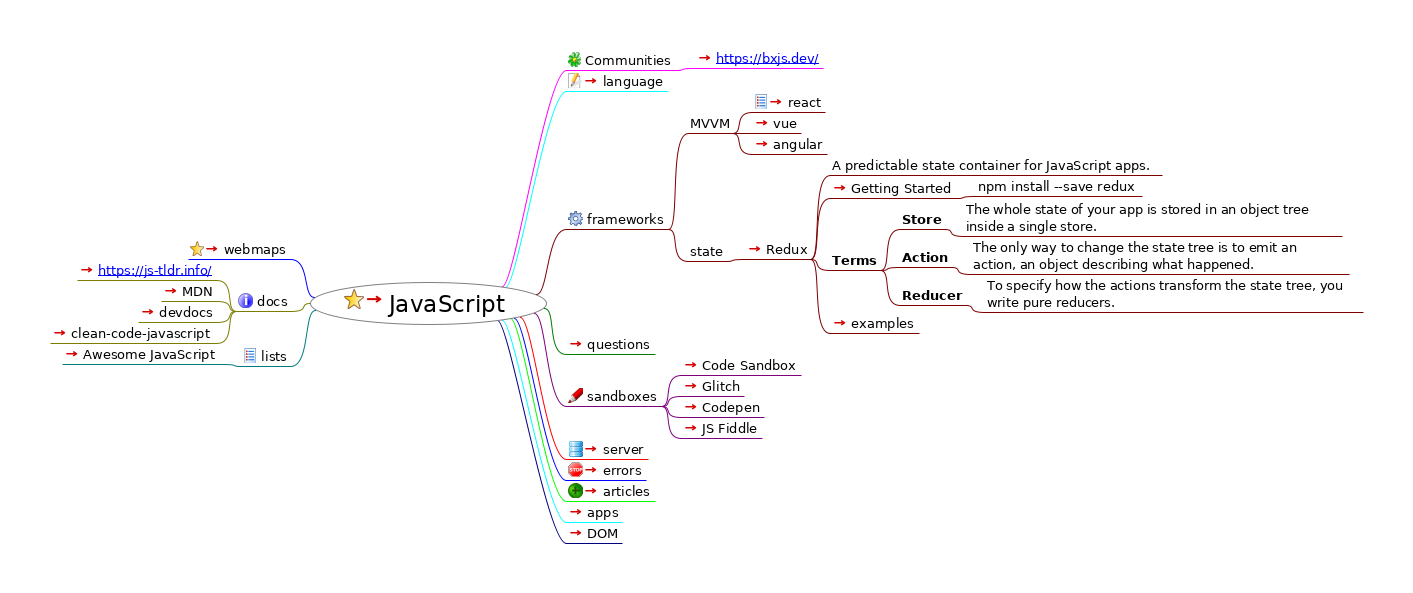
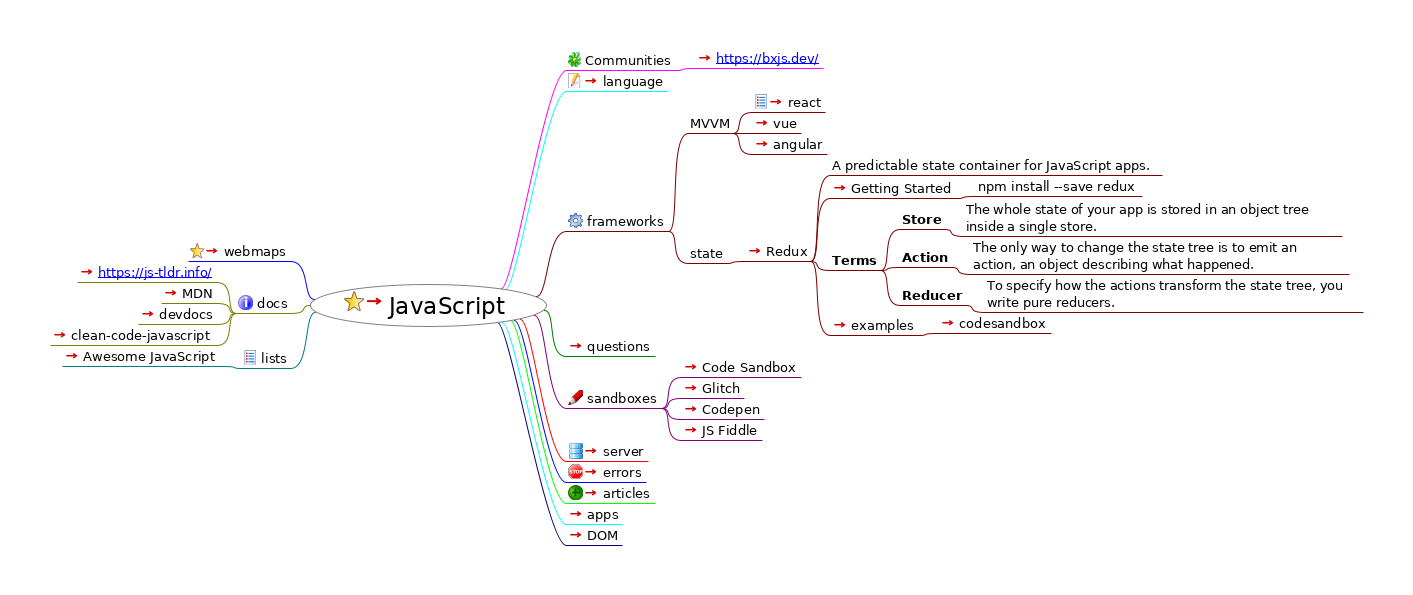
add redux

diff --git a/index.html b/index.html
@@ -23,25 +23,25 @@
                    };
                };
           
-          --></script></head><body><h1>JavaScript</h1><div style="width:96%;  padding:2%;  margin-bottom:10px;  border: 0px;  text-align:center;  vertical-align:center;"><img src="index.html_files/image.png" style="margin-bottom:10px; &#9;border: 0px; &#9;text-align:center; &#9;vertical-align:center;" alt="Imagemap" usemap="#fm_imagemap" /></div><map name="fm_imagemap" id="fm_imagemap"><area shape="rect" href="../tech/index.html" alt="JavaScript" title="JavaScript" coords="310,282,547,325" />
-<area shape="rect" href="https://github.com/solidpayorg/webmaps/" alt="webmaps" title="webmaps" coords="188,241,291,259" />
-<area shape="rect" href="#FMID_1425964050FM" alt="docs" title="docs" coords="236,293,291,311" />
-<area shape="rect" href="https://js-tldr.info/" alt="https://js-tldr.info/" title="https://js-tldr.info/" coords="77,262,217,280" />
-<area shape="rect" href="https://developer.mozilla.org/en-US/docs/Web/JavaScript" alt="MDN" title="MDN" coords="161,283,217,301" />
-<area shape="rect" href="https://devdocs.io/javascript/" alt="devdocs" title="devdocs" coords="138,304,217,322" />
-<area shape="rect" href="https://github.com/ryanmcdermott/clean-code-javascript" alt="clean-code-javascript" title="clean-code-javascript" coords="50,325,217,343" />
-<area shape="rect" href="#FMID_829378880FM" alt="lists" title="lists" coords="241,348,291,366" />
-<area shape="rect" href="https://github.com/sorrycc/awesome-javascript" alt="Awesome JavaScript" title="Awesome JavaScript" coords="62,346,222,364" />
+          --></script></head><body><h1>JavaScript</h1><div style="width:96%;  padding:2%;  margin-bottom:10px;  border: 0px;  text-align:center;  vertical-align:center;"><img src="index.html_files/image.png" style="margin-bottom:10px; &#9;border: 0px; &#9;text-align:center; &#9;vertical-align:center;" alt="Imagemap" usemap="#fm_imagemap" /></div><map name="fm_imagemap" id="fm_imagemap"><area shape="rect" href="../tech/index.html" alt="JavaScript" title="JavaScript" coords="310,284,547,327" />
+<area shape="rect" href="https://github.com/solidpayorg/webmaps/" alt="webmaps" title="webmaps" coords="188,243,291,261" />
+<area shape="rect" href="#FMID_1425964050FM" alt="docs" title="docs" coords="236,295,291,313" />
+<area shape="rect" href="https://js-tldr.info/" alt="https://js-tldr.info/" title="https://js-tldr.info/" coords="77,264,217,282" />
+<area shape="rect" href="https://developer.mozilla.org/en-US/docs/Web/JavaScript" alt="MDN" title="MDN" coords="161,285,217,303" />
+<area shape="rect" href="https://devdocs.io/javascript/" alt="devdocs" title="devdocs" coords="138,306,217,324" />
+<area shape="rect" href="https://github.com/ryanmcdermott/clean-code-javascript" alt="clean-code-javascript" title="clean-code-javascript" coords="50,327,217,345" />
+<area shape="rect" href="#FMID_829378880FM" alt="lists" title="lists" coords="241,350,291,368" />
+<area shape="rect" href="https://github.com/sorrycc/awesome-javascript" alt="Awesome JavaScript" title="Awesome JavaScript" coords="62,348,222,366" />
 <area shape="rect" href="#FMID_849215328FM" alt="Communities" title="Communities" coords="566,52,676,70" />
 <area shape="rect" href="https://bxjs.dev/" alt="https://bxjs.dev/" title="https://bxjs.dev/" coords="695,50,823,68" />
 <area shape="rect" href="language.html" alt="language" title="language" coords="566,73,668,91" />
-<area shape="rect" href="#FMID_153818301FM" alt="frameworks" title="frameworks" coords="566,211,669,229" />
+<area shape="rect" href="#FMID_153818301FM" alt="frameworks" title="frameworks" coords="566,213,669,231" />
 <area shape="rect" href="#FMID_208171559FM" alt="MVVM" title="MVVM" coords="688,115,733,133" />
 <area shape="rect" href="react/index.html" alt="react" title="react" coords="752,94,825,112" />
 <area shape="rect" href="https://vuejs.org/" alt="vue" title="vue" coords="752,115,801,133" />
 <area shape="rect" href="https://angular.io/" alt="angular" title="angular" coords="752,136,827,154" />
-<area shape="rect" href="#FMID_156551041FM" alt="state" title="state" coords="688,243,726,261" />
-<area shape="rect" href="https://redux.js.org/" alt="Redux" title="Redux" coords="745,241,811,259" />
+<area shape="rect" href="#FMID_156551041FM" alt="state" title="state" coords="688,245,726,263" />
+<area shape="rect" href="https://redux.js.org/" alt="Redux" title="Redux" coords="745,243,811,261" />
 <area shape="rect" href="#FMID_952075275FM" alt="A predictable state container for JavaSc ..." title="A predictable state container for JavaSc ..." coords="830,157,1162,175" />
 <area shape="rect" href="https://redux.js.org/introduction/getting-started" alt="Getting Started" title="Getting Started" coords="830,180,957,198" />
 <area shape="rect" href="#FMID_332762210FM" alt="npm install --save redux" title="npm install --save redux" coords="976,178,1142,196" />
@@ -52,23 +52,24 @@
 <area shape="rect" href="#FMID_1174193716FM" alt="The only way to change the state tree is ..." title="The only way to change the state tree is ..." coords="971,239,1349,274" />
 <area shape="rect" href="#FMID_226284364FM" alt="Reducer" title="Reducer" coords="900,287,966,305" />
 <area shape="rect" href="#FMID_697698801FM" alt="To specify how the actions transform the ..." title="To specify how the actions transform the ..." coords="985,277,1363,312" />
-<area shape="rect" href="https://redux.js.org/introduction/examples" alt="examples" title="examples" coords="830,315,919,333" />
-<area shape="rect" href="questions.html" alt="questions" title="questions" coords="566,336,655,354" />
-<area shape="rect" href="#FMID_1460537766FM" alt="sandboxes" title="sandboxes" coords="566,388,662,406" />
-<area shape="rect" href="https://codesandbox.io/" alt="Code Sandbox" title="Code Sandbox" coords="681,357,801,375" />
-<area shape="rect" href="https://glitch.com/" alt="Glitch" title="Glitch" coords="681,378,744,396" />
-<area shape="rect" href="https://codepen.io/" alt="Codepen" title="Codepen" coords="681,399,764,417" />
-<area shape="rect" href="https://jsfiddle.net/" alt="JS Fiddle" title="JS Fiddle" coords="681,420,762,438" />
-<area shape="rect" href="server/index.html" alt="server" title="server" coords="566,441,648,459" />
-<area shape="rect" href="https://blog.appsignal.com/2019/10/17/javascript-errors-an-exceptional-history.html" alt="errors" title="errors" coords="566,462,646,480" />
-<area shape="rect" href="articles/index.html" alt="articles" title="articles" coords="566,483,655,501" />
-<area shape="rect" href="apps/index.html" alt="apps" title="apps" coords="566,504,622,522" />
-<area shape="rect" href="DOM.html" alt="DOM" title="DOM" coords="566,525,622,543" />
+<area shape="rect" href="https://redux.js.org/introduction/examples" alt="examples" title="examples" coords="830,317,919,335" />
+<area shape="rect" href="https://codesandbox.io/s/reduxjs-joqhu" alt="codesandbox" title="codesandbox" coords="938,315,1051,333" />
+<area shape="rect" href="questions.html" alt="questions" title="questions" coords="566,338,655,356" />
+<area shape="rect" href="#FMID_1460537766FM" alt="sandboxes" title="sandboxes" coords="566,390,662,408" />
+<area shape="rect" href="https://codesandbox.io/" alt="Code Sandbox" title="Code Sandbox" coords="681,359,801,377" />
+<area shape="rect" href="https://glitch.com/" alt="Glitch" title="Glitch" coords="681,380,744,398" />
+<area shape="rect" href="https://codepen.io/" alt="Codepen" title="Codepen" coords="681,401,764,419" />
+<area shape="rect" href="https://jsfiddle.net/" alt="JS Fiddle" title="JS Fiddle" coords="681,422,762,440" />
+<area shape="rect" href="server/index.html" alt="server" title="server" coords="566,443,648,461" />
+<area shape="rect" href="https://blog.appsignal.com/2019/10/17/javascript-errors-an-exceptional-history.html" alt="errors" title="errors" coords="566,464,646,482" />
+<area shape="rect" href="articles/index.html" alt="articles" title="articles" coords="566,485,655,503" />
+<area shape="rect" href="apps/index.html" alt="apps" title="apps" coords="566,506,622,524" />
+<area shape="rect" href="DOM.html" alt="DOM" title="DOM" coords="566,527,622,545" />
 </map>
 
 <div class="node"><img src="index.html_files/hide.png" class="hideshow" alt="hide" onClick="toggle(&quot;N65543&quot;)" id="imgN65543" /><img src="index.html_files/icons/bookmark.svg" alt="bookmark" /> <a id="FMID_110073400FM" /><div class="nodecontent" style="color:#000000;font-size:150%;"><a href="../tech/index.html">JavaScript</a> <a href="../tech/index.html"><img src="index.html_files/ilink.png" alt="User Link" style="border-width:0" /></a></div><div class="content" id="N65543"><div class="node"><img src="index.html_files/leaf.png" class="hideshow" alt="leaf" /><img src="index.html_files/icons/bookmark.svg" alt="bookmark" /> <a id="FMID_634574866FM" /><div class="nodecontent" style="color:#000000;font-size:83%;"><a href="https://github.com/solidpayorg/webmaps/">webmaps</a> <a href="https://github.com/solidpayorg/webmaps/"><img src="index.html_files/ilink.png" alt="User Link" style="border-width:0" /></a></div></div><div class="node"><img src="index.html_files/hide.png" class="hideshow" alt="hide" onClick="toggle(&quot;N66488&quot;)" id="imgN66488" /><img src="index.html_files/icons/info.svg" alt="info" /> <a id="FMID_1425964050FM" /><div class="nodecontent" style="color:#000000;font-size:83%;">docs</div><div class="content" id="N66488"><div class="node"><img src="index.html_files/leaf.png" class="hideshow" alt="leaf" /><a id="FMID_1375223842FM" /><div class="nodecontent" style="color:#000000;font-size:83%;"><a href="https://js-tldr.info/">
     <a http-equiv="content-type" content="text/html; charset=utf-8" href="https://js-tldr.info/">https://js-tldr.info/</a>
   </a> <a href="https://js-tldr.info/"><img src="index.html_files/ilink.png" alt="User Link" style="border-width:0" /></a></div></div><div class="node"><img src="index.html_files/leaf.png" class="hideshow" alt="leaf" /><a id="FMID_773205118FM" /><div class="nodecontent" style="color:#000000;font-size:83%;"><a href="https://developer.mozilla.org/en-US/docs/Web/JavaScript">MDN</a> <a href="https://developer.mozilla.org/en-US/docs/Web/JavaScript"><img src="index.html_files/ilink.png" alt="User Link" style="border-width:0" /></a></div></div><div class="node"><img src="index.html_files/leaf.png" class="hideshow" alt="leaf" /><a id="FMID_83129282FM" /><div class="nodecontent" style="color:#000000;font-size:83%;"><a href="https://devdocs.io/javascript/">devdocs</a> <a href="https://devdocs.io/javascript/"><img src="index.html_files/ilink.png" alt="User Link" style="border-width:0" /></a></div></div><div class="node"><img src="index.html_files/leaf.png" class="hideshow" alt="leaf" /><a id="FMID_724832318FM" /><div class="nodecontent" style="color:#000000;font-size:83%;"><a href="https://github.com/ryanmcdermott/clean-code-javascript">clean-code-javascript</a> <a href="https://github.com/ryanmcdermott/clean-code-javascript"><img src="index.html_files/ilink.png" alt="User Link" style="border-width:0" /></a></div></div></div></div><div class="node"><img src="index.html_files/hide.png" class="hideshow" alt="hide" onClick="toggle(&quot;N66696&quot;)" id="imgN66696" /><img src="index.html_files/icons/list.svg" alt="list" /> <a id="FMID_829378880FM" /><div class="nodecontent" style="color:#000000;font-size:83%;">lists</div><div class="content" id="N66696"><div class="node"><img src="index.html_files/leaf.png" class="hideshow" alt="leaf" /><a id="FMID_157748484FM" /><div class="nodecontent" style="color:#000000;font-size:83%;"><a href="https://github.com/sorrycc/awesome-javascript">Awesome JavaScript</a> <a href="https://github.com/sorrycc/awesome-javascript"><img src="index.html_files/ilink.png" alt="User Link" style="border-width:0" /></a></div></div></div></div><div class="node"><img src="index.html_files/hide.png" class="hideshow" alt="hide" onClick="toggle(&quot;N66775&quot;)" id="imgN66775" /><img src="index.html_files/icons/licq.svg" alt="licq" /> <a id="FMID_849215328FM" /><div class="nodecontent" style="color:#000000;font-size:83%;">Communities</div><div class="content" id="N66775"><div class="node"><img src="index.html_files/leaf.png" class="hideshow" alt="leaf" /><a id="FMID_1384859362FM" /><div class="nodecontent" style="color:#000000;font-size:83%;"><a href="https://bxjs.dev/">
     <a http-equiv="content-type" content="text/html; charset=utf-8" href="https://bxjs.dev/">https://bxjs.dev/</a>
-  </a> <a href="https://bxjs.dev/"><img src="index.html_files/ilink.png" alt="User Link" style="border-width:0" /></a></div></div></div></div><div class="node"><img src="index.html_files/leaf.png" class="hideshow" alt="leaf" /><img src="index.html_files/icons/edit.svg" alt="edit" /> <a id="FMID_1566689685FM" /><div class="nodecontent" style="color:#000000;font-size:83%;"><a href="language.html">language</a> <a href="language.html"><img src="index.html_files/ilink.png" alt="User Link" style="border-width:0" /></a></div></div><div class="node"><img src="index.html_files/hide.png" class="hideshow" alt="hide" onClick="toggle(&quot;N66915&quot;)" id="imgN66915" /><img src="index.html_files/icons/executable.svg" alt="executable" /> <a id="FMID_153818301FM" /><div class="nodecontent" style="color:#000000;font-size:83%;">frameworks</div><div class="content" id="N66915"><div class="node"><img src="index.html_files/hide.png" class="hideshow" alt="hide" onClick="toggle(&quot;N66956&quot;)" id="imgN66956" /><a id="FMID_208171559FM" /><div class="nodecontent" style="color:#000000;font-size:83%;">MVVM</div><div class="content" id="N66956"><div class="node"><img src="index.html_files/leaf.png" class="hideshow" alt="leaf" /><img src="index.html_files/icons/list.svg" alt="list" /> <a id="FMID_921980201FM" /><div class="nodecontent" style="color:#000000;font-size:83%;"><a href="react/index.html">react</a> <a href="react/index.html"><img src="index.html_files/ilink.png" alt="User Link" style="border-width:0" /></a></div></div><div class="node"><img src="index.html_files/leaf.png" class="hideshow" alt="leaf" /><a id="FMID_850712897FM" /><div class="nodecontent" style="color:#000000;font-size:83%;"><a href="https://vuejs.org/">vue</a> <a href="https://vuejs.org/"><img src="index.html_files/ilink.png" alt="User Link" style="border-width:0" /></a></div></div><div class="node"><img src="index.html_files/leaf.png" class="hideshow" alt="leaf" /><a id="FMID_101804111FM" /><div class="nodecontent" style="color:#000000;font-size:83%;"><a href="https://angular.io/">angular</a> <a href="https://angular.io/"><img src="index.html_files/ilink.png" alt="User Link" style="border-width:0" /></a></div></div></div></div><div class="node"><img src="index.html_files/hide.png" class="hideshow" alt="hide" onClick="toggle(&quot;N67108&quot;)" id="imgN67108" /><a id="FMID_156551041FM" /><div class="nodecontent" style="color:#000000;font-size:83%;">state</div><div class="content" id="N67108"><div class="node"><img src="index.html_files/hide.png" class="hideshow" alt="hide" onClick="toggle(&quot;N67143&quot;)" id="imgN67143" /><a id="FMID_1287476678FM" /><div class="nodecontent" style="color:#000000;font-size:83%;"><a href="https://redux.js.org/">Redux</a> <a href="https://redux.js.org/"><img src="index.html_files/ilink.png" alt="User Link" style="border-width:0" /></a></div><div class="content" id="N67143"><div class="node"><img src="index.html_files/leaf.png" class="hideshow" alt="leaf" /><a id="FMID_952075275FM" /><div class="nodecontent" style="color:#000000;font-size:83%;">A predictable state container for JavaScript apps.</div></div><div class="node"><img src="index.html_files/hide.png" class="hideshow" alt="hide" onClick="toggle(&quot;N67215&quot;)" id="imgN67215" /><a id="FMID_597064892FM" /><div class="nodecontent" style="color:#000000;font-size:83%;"><a href="https://redux.js.org/introduction/getting-started">Getting Started</a> <a href="https://redux.js.org/introduction/getting-started"><img src="index.html_files/ilink.png" alt="User Link" style="border-width:0" /></a></div><div class="content" id="N67215"><div class="node"><img src="index.html_files/leaf.png" class="hideshow" alt="leaf" /><a id="FMID_332762210FM" /><div class="nodecontent" style="color:#000000;font-size:83%;">npm install --save redux</div></div></div></div><div class="node"><img src="index.html_files/hide.png" class="hideshow" alt="hide" onClick="toggle(&quot;N67288&quot;)" id="imgN67288" /><a id="FMID_737373630FM" /><div class="nodecontent" style="color:#000000;font-size:83%;font-weight:bold;">Terms</div><div class="content" id="N67288"><div class="node"><img src="index.html_files/hide.png" class="hideshow" alt="hide" onClick="toggle(&quot;N67323&quot;)" id="imgN67323" /><a id="FMID_135925682FM" /><div class="nodecontent" style="color:#000000;font-size:83%;font-weight:bold;">Store</div><div class="content" id="N67323"><div class="node"><img src="index.html_files/leaf.png" class="hideshow" alt="leaf" /><a id="FMID_877971409FM" /><div class="nodecontent" style="color:#000000;font-size:83%;">The whole state of your app is stored in an object tree inside a single store.</div></div></div></div><div class="node"><img src="index.html_files/hide.png" class="hideshow" alt="hide" onClick="toggle(&quot;N67395&quot;)" id="imgN67395" /><a id="FMID_334240610FM" /><div class="nodecontent" style="color:#000000;font-size:83%;font-weight:bold;">Action</div><div class="content" id="N67395"><div class="node"><img src="index.html_files/leaf.png" class="hideshow" alt="leaf" /><a id="FMID_1174193716FM" /><div class="nodecontent" style="color:#000000;font-size:83%;">The only way to change the state tree is to emit an action, an object describing what happened.</div></div></div></div><div class="node"><img src="index.html_files/hide.png" class="hideshow" alt="hide" onClick="toggle(&quot;N67467&quot;)" id="imgN67467" /><a id="FMID_226284364FM" /><div class="nodecontent" style="color:#000000;font-size:83%;font-weight:bold;">Reducer</div><div class="content" id="N67467"><div class="node"><img src="index.html_files/leaf.png" class="hideshow" alt="leaf" /><a id="FMID_697698801FM" /><div class="nodecontent" style="color:#000000;font-size:83%;">To specify how the actions transform the state tree, you write pure reducers.</div></div></div></div></div></div><div class="node"><img src="index.html_files/leaf.png" class="hideshow" alt="leaf" /><a id="FMID_1437141218FM" /><div class="nodecontent" style="color:#000000;font-size:83%;"><a href="https://redux.js.org/introduction/examples">examples</a> <a href="https://redux.js.org/introduction/examples"><img src="index.html_files/ilink.png" alt="User Link" style="border-width:0" /></a></div></div></div></div></div></div></div></div><div class="node"><img src="index.html_files/leaf.png" class="hideshow" alt="leaf" /><a id="FMID_845980270FM" /><div class="nodecontent" style="color:#000000;font-size:83%;"><a href="questions.html">questions</a> <a href="questions.html"><img src="index.html_files/ilink.png" alt="User Link" style="border-width:0" /></a></div></div><div class="node"><img src="index.html_files/hide.png" class="hideshow" alt="hide" onClick="toggle(&quot;N67618&quot;)" id="imgN67618" /><img src="index.html_files/icons/pencil.svg" alt="pencil" /> <a id="FMID_1460537766FM" /><div class="nodecontent" style="color:#000000;font-size:83%;">sandboxes</div><div class="content" id="N67618"><div class="node"><img src="index.html_files/leaf.png" class="hideshow" alt="leaf" /><a id="FMID_899668548FM" /><div class="nodecontent" style="color:#000000;font-size:83%;"><a href="https://codesandbox.io/">Code Sandbox</a> <a href="https://codesandbox.io/"><img src="index.html_files/ilink.png" alt="User Link" style="border-width:0" /></a></div></div><div class="node"><img src="index.html_files/leaf.png" class="hideshow" alt="leaf" /><a id="FMID_1286093091FM" /><div class="nodecontent" style="color:#000000;font-size:83%;"><a href="https://glitch.com/">Glitch</a> <a href="https://glitch.com/"><img src="index.html_files/ilink.png" alt="User Link" style="border-width:0" /></a></div></div><div class="node"><img src="index.html_files/leaf.png" class="hideshow" alt="leaf" /><a id="FMID_942460316FM" /><div class="nodecontent" style="color:#000000;font-size:83%;"><a href="https://codepen.io/">Codepen</a> <a href="https://codepen.io/"><img src="index.html_files/ilink.png" alt="User Link" style="border-width:0" /></a></div></div><div class="node"><img src="index.html_files/leaf.png" class="hideshow" alt="leaf" /><a id="FMID_1150601009FM" /><div class="nodecontent" style="color:#000000;font-size:83%;"><a href="https://jsfiddle.net/">JS Fiddle</a> <a href="https://jsfiddle.net/"><img src="index.html_files/ilink.png" alt="User Link" style="border-width:0" /></a></div></div></div></div><div class="node"><img src="index.html_files/leaf.png" class="hideshow" alt="leaf" /><img src="index.html_files/icons/16x16-free-application-icons/png/16x16/Database.png" alt="16x16-free-application-icons/png/16x16/Database" /> <a id="FMID_1516168898FM" /><div class="nodecontent" style="color:#000000;font-size:83%;"><a href="server/index.html">server</a> <a href="server/index.html"><img src="index.html_files/ilink.png" alt="User Link" style="border-width:0" /></a></div></div><div class="node"><img src="index.html_files/leaf.png" class="hideshow" alt="leaf" /><img src="index.html_files/icons/stop-sign.svg" alt="stop-sign" /> <a id="FMID_437549538FM" /><div class="nodecontent" style="color:#000000;font-size:83%;"><a href="https://blog.appsignal.com/2019/10/17/javascript-errors-an-exceptional-history.html">errors</a> <a href="https://blog.appsignal.com/2019/10/17/javascript-errors-an-exceptional-history.html"><img src="index.html_files/ilink.png" alt="User Link" style="border-width:0" /></a></div></div><div class="node"><img src="index.html_files/leaf.png" class="hideshow" alt="leaf" /><img src="index.html_files/icons/very_positive.svg" alt="very_positive" /> <a id="FMID_51150335FM" /><div class="nodecontent" style="color:#000000;font-size:83%;"><a href="articles/index.html">articles</a> <a href="articles/index.html"><img src="index.html_files/ilink.png" alt="User Link" style="border-width:0" /></a></div></div><div class="node"><img src="index.html_files/leaf.png" class="hideshow" alt="leaf" /><a id="FMID_452171129FM" /><div class="nodecontent" style="color:#000000;font-size:83%;"><a href="apps/index.html">apps</a> <a href="apps/index.html"><img src="index.html_files/ilink.png" alt="User Link" style="border-width:0" /></a></div></div><div class="node"><img src="index.html_files/leaf.png" class="hideshow" alt="leaf" /><a id="FMID_1132407233FM" /><div class="nodecontent" style="color:#000000;font-size:83%;"><a href="DOM.html">DOM</a> <a href="DOM.html"><img src="index.html_files/ilink.png" alt="User Link" style="border-width:0" /></a></div></div></div></div>
+  </a> <a href="https://bxjs.dev/"><img src="index.html_files/ilink.png" alt="User Link" style="border-width:0" /></a></div></div></div></div><div class="node"><img src="index.html_files/leaf.png" class="hideshow" alt="leaf" /><img src="index.html_files/icons/edit.svg" alt="edit" /> <a id="FMID_1566689685FM" /><div class="nodecontent" style="color:#000000;font-size:83%;"><a href="language.html">language</a> <a href="language.html"><img src="index.html_files/ilink.png" alt="User Link" style="border-width:0" /></a></div></div><div class="node"><img src="index.html_files/hide.png" class="hideshow" alt="hide" onClick="toggle(&quot;N66915&quot;)" id="imgN66915" /><img src="index.html_files/icons/executable.svg" alt="executable" /> <a id="FMID_153818301FM" /><div class="nodecontent" style="color:#000000;font-size:83%;">frameworks</div><div class="content" id="N66915"><div class="node"><img src="index.html_files/hide.png" class="hideshow" alt="hide" onClick="toggle(&quot;N66956&quot;)" id="imgN66956" /><a id="FMID_208171559FM" /><div class="nodecontent" style="color:#000000;font-size:83%;">MVVM</div><div class="content" id="N66956"><div class="node"><img src="index.html_files/leaf.png" class="hideshow" alt="leaf" /><img src="index.html_files/icons/list.svg" alt="list" /> <a id="FMID_921980201FM" /><div class="nodecontent" style="color:#000000;font-size:83%;"><a href="react/index.html">react</a> <a href="react/index.html"><img src="index.html_files/ilink.png" alt="User Link" style="border-width:0" /></a></div></div><div class="node"><img src="index.html_files/leaf.png" class="hideshow" alt="leaf" /><a id="FMID_850712897FM" /><div class="nodecontent" style="color:#000000;font-size:83%;"><a href="https://vuejs.org/">vue</a> <a href="https://vuejs.org/"><img src="index.html_files/ilink.png" alt="User Link" style="border-width:0" /></a></div></div><div class="node"><img src="index.html_files/leaf.png" class="hideshow" alt="leaf" /><a id="FMID_101804111FM" /><div class="nodecontent" style="color:#000000;font-size:83%;"><a href="https://angular.io/">angular</a> <a href="https://angular.io/"><img src="index.html_files/ilink.png" alt="User Link" style="border-width:0" /></a></div></div></div></div><div class="node"><img src="index.html_files/hide.png" class="hideshow" alt="hide" onClick="toggle(&quot;N67108&quot;)" id="imgN67108" /><a id="FMID_156551041FM" /><div class="nodecontent" style="color:#000000;font-size:83%;">state</div><div class="content" id="N67108"><div class="node"><img src="index.html_files/hide.png" class="hideshow" alt="hide" onClick="toggle(&quot;N67143&quot;)" id="imgN67143" /><a id="FMID_1287476678FM" /><div class="nodecontent" style="color:#000000;font-size:83%;"><a href="https://redux.js.org/">Redux</a> <a href="https://redux.js.org/"><img src="index.html_files/ilink.png" alt="User Link" style="border-width:0" /></a></div><div class="content" id="N67143"><div class="node"><img src="index.html_files/leaf.png" class="hideshow" alt="leaf" /><a id="FMID_952075275FM" /><div class="nodecontent" style="color:#000000;font-size:83%;">A predictable state container for JavaScript apps.</div></div><div class="node"><img src="index.html_files/hide.png" class="hideshow" alt="hide" onClick="toggle(&quot;N67215&quot;)" id="imgN67215" /><a id="FMID_597064892FM" /><div class="nodecontent" style="color:#000000;font-size:83%;"><a href="https://redux.js.org/introduction/getting-started">Getting Started</a> <a href="https://redux.js.org/introduction/getting-started"><img src="index.html_files/ilink.png" alt="User Link" style="border-width:0" /></a></div><div class="content" id="N67215"><div class="node"><img src="index.html_files/leaf.png" class="hideshow" alt="leaf" /><a id="FMID_332762210FM" /><div class="nodecontent" style="color:#000000;font-size:83%;">npm install --save redux</div></div></div></div><div class="node"><img src="index.html_files/hide.png" class="hideshow" alt="hide" onClick="toggle(&quot;N67288&quot;)" id="imgN67288" /><a id="FMID_737373630FM" /><div class="nodecontent" style="color:#000000;font-size:83%;font-weight:bold;">Terms</div><div class="content" id="N67288"><div class="node"><img src="index.html_files/hide.png" class="hideshow" alt="hide" onClick="toggle(&quot;N67323&quot;)" id="imgN67323" /><a id="FMID_135925682FM" /><div class="nodecontent" style="color:#000000;font-size:83%;font-weight:bold;">Store</div><div class="content" id="N67323"><div class="node"><img src="index.html_files/leaf.png" class="hideshow" alt="leaf" /><a id="FMID_877971409FM" /><div class="nodecontent" style="color:#000000;font-size:83%;">The whole state of your app is stored in an object tree inside a single store.</div></div></div></div><div class="node"><img src="index.html_files/hide.png" class="hideshow" alt="hide" onClick="toggle(&quot;N67395&quot;)" id="imgN67395" /><a id="FMID_334240610FM" /><div class="nodecontent" style="color:#000000;font-size:83%;font-weight:bold;">Action</div><div class="content" id="N67395"><div class="node"><img src="index.html_files/leaf.png" class="hideshow" alt="leaf" /><a id="FMID_1174193716FM" /><div class="nodecontent" style="color:#000000;font-size:83%;">The only way to change the state tree is to emit an action, an object describing what happened.</div></div></div></div><div class="node"><img src="index.html_files/hide.png" class="hideshow" alt="hide" onClick="toggle(&quot;N67467&quot;)" id="imgN67467" /><a id="FMID_226284364FM" /><div class="nodecontent" style="color:#000000;font-size:83%;font-weight:bold;">Reducer</div><div class="content" id="N67467"><div class="node"><img src="index.html_files/leaf.png" class="hideshow" alt="leaf" /><a id="FMID_697698801FM" /><div class="nodecontent" style="color:#000000;font-size:83%;">To specify how the actions transform the state tree, you write pure reducers.</div></div></div></div></div></div><div class="node"><img src="index.html_files/hide.png" class="hideshow" alt="hide" onClick="toggle(&quot;N67540&quot;)" id="imgN67540" /><a id="FMID_1437141218FM" /><div class="nodecontent" style="color:#000000;font-size:83%;"><a href="https://redux.js.org/introduction/examples">examples</a> <a href="https://redux.js.org/introduction/examples"><img src="index.html_files/ilink.png" alt="User Link" style="border-width:0" /></a></div><div class="content" id="N67540"><div class="node"><img src="index.html_files/leaf.png" class="hideshow" alt="leaf" /><a id="FMID_1397733159FM" /><div class="nodecontent" style="color:#000000;font-size:83%;"><a href="https://codesandbox.io/s/reduxjs-joqhu">codesandbox</a> <a href="https://codesandbox.io/s/reduxjs-joqhu"><img src="index.html_files/ilink.png" alt="User Link" style="border-width:0" /></a></div></div></div></div></div></div></div></div></div></div><div class="node"><img src="index.html_files/leaf.png" class="hideshow" alt="leaf" /><a id="FMID_845980270FM" /><div class="nodecontent" style="color:#000000;font-size:83%;"><a href="questions.html">questions</a> <a href="questions.html"><img src="index.html_files/ilink.png" alt="User Link" style="border-width:0" /></a></div></div><div class="node"><img src="index.html_files/hide.png" class="hideshow" alt="hide" onClick="toggle(&quot;N67655&quot;)" id="imgN67655" /><img src="index.html_files/icons/pencil.svg" alt="pencil" /> <a id="FMID_1460537766FM" /><div class="nodecontent" style="color:#000000;font-size:83%;">sandboxes</div><div class="content" id="N67655"><div class="node"><img src="index.html_files/leaf.png" class="hideshow" alt="leaf" /><a id="FMID_899668548FM" /><div class="nodecontent" style="color:#000000;font-size:83%;"><a href="https://codesandbox.io/">Code Sandbox</a> <a href="https://codesandbox.io/"><img src="index.html_files/ilink.png" alt="User Link" style="border-width:0" /></a></div></div><div class="node"><img src="index.html_files/leaf.png" class="hideshow" alt="leaf" /><a id="FMID_1286093091FM" /><div class="nodecontent" style="color:#000000;font-size:83%;"><a href="https://glitch.com/">Glitch</a> <a href="https://glitch.com/"><img src="index.html_files/ilink.png" alt="User Link" style="border-width:0" /></a></div></div><div class="node"><img src="index.html_files/leaf.png" class="hideshow" alt="leaf" /><a id="FMID_942460316FM" /><div class="nodecontent" style="color:#000000;font-size:83%;"><a href="https://codepen.io/">Codepen</a> <a href="https://codepen.io/"><img src="index.html_files/ilink.png" alt="User Link" style="border-width:0" /></a></div></div><div class="node"><img src="index.html_files/leaf.png" class="hideshow" alt="leaf" /><a id="FMID_1150601009FM" /><div class="nodecontent" style="color:#000000;font-size:83%;"><a href="https://jsfiddle.net/">JS Fiddle</a> <a href="https://jsfiddle.net/"><img src="index.html_files/ilink.png" alt="User Link" style="border-width:0" /></a></div></div></div></div><div class="node"><img src="index.html_files/leaf.png" class="hideshow" alt="leaf" /><img src="index.html_files/icons/16x16-free-application-icons/png/16x16/Database.png" alt="16x16-free-application-icons/png/16x16/Database" /> <a id="FMID_1516168898FM" /><div class="nodecontent" style="color:#000000;font-size:83%;"><a href="server/index.html">server</a> <a href="server/index.html"><img src="index.html_files/ilink.png" alt="User Link" style="border-width:0" /></a></div></div><div class="node"><img src="index.html_files/leaf.png" class="hideshow" alt="leaf" /><img src="index.html_files/icons/stop-sign.svg" alt="stop-sign" /> <a id="FMID_437549538FM" /><div class="nodecontent" style="color:#000000;font-size:83%;"><a href="https://blog.appsignal.com/2019/10/17/javascript-errors-an-exceptional-history.html">errors</a> <a href="https://blog.appsignal.com/2019/10/17/javascript-errors-an-exceptional-history.html"><img src="index.html_files/ilink.png" alt="User Link" style="border-width:0" /></a></div></div><div class="node"><img src="index.html_files/leaf.png" class="hideshow" alt="leaf" /><img src="index.html_files/icons/very_positive.svg" alt="very_positive" /> <a id="FMID_51150335FM" /><div class="nodecontent" style="color:#000000;font-size:83%;"><a href="articles/index.html">articles</a> <a href="articles/index.html"><img src="index.html_files/ilink.png" alt="User Link" style="border-width:0" /></a></div></div><div class="node"><img src="index.html_files/leaf.png" class="hideshow" alt="leaf" /><a id="FMID_452171129FM" /><div class="nodecontent" style="color:#000000;font-size:83%;"><a href="apps/index.html">apps</a> <a href="apps/index.html"><img src="index.html_files/ilink.png" alt="User Link" style="border-width:0" /></a></div></div><div class="node"><img src="index.html_files/leaf.png" class="hideshow" alt="leaf" /><a id="FMID_1132407233FM" /><div class="nodecontent" style="color:#000000;font-size:83%;"><a href="DOM.html">DOM</a> <a href="DOM.html"><img src="index.html_files/ilink.png" alt="User Link" style="border-width:0" /></a></div></div></div></div>
 </body></html>

diff --git a/index.mm b/index.mm
@@ -144,7 +144,9 @@
 <node TEXT="To specify how the actions transform the state tree, you write pure reducers." ID="ID_697698801" CREATED="1575899232106" MODIFIED="1575899232106"/>
 </node>
 </node>
-<node TEXT="examples" ID="ID_1437141218" CREATED="1575899420351" MODIFIED="1575899428269" LINK="https://redux.js.org/introduction/examples"/>
+<node TEXT="examples" ID="ID_1437141218" CREATED="1575899420351" MODIFIED="1575899428269" LINK="https://redux.js.org/introduction/examples">
+<node TEXT="codesandbox" ID="ID_1397733159" CREATED="1575633622987" MODIFIED="1575902513506" LINK="https://codesandbox.io/s/reduxjs-joqhu"/>
+</node>
 </node>
 </node>
 </node>
